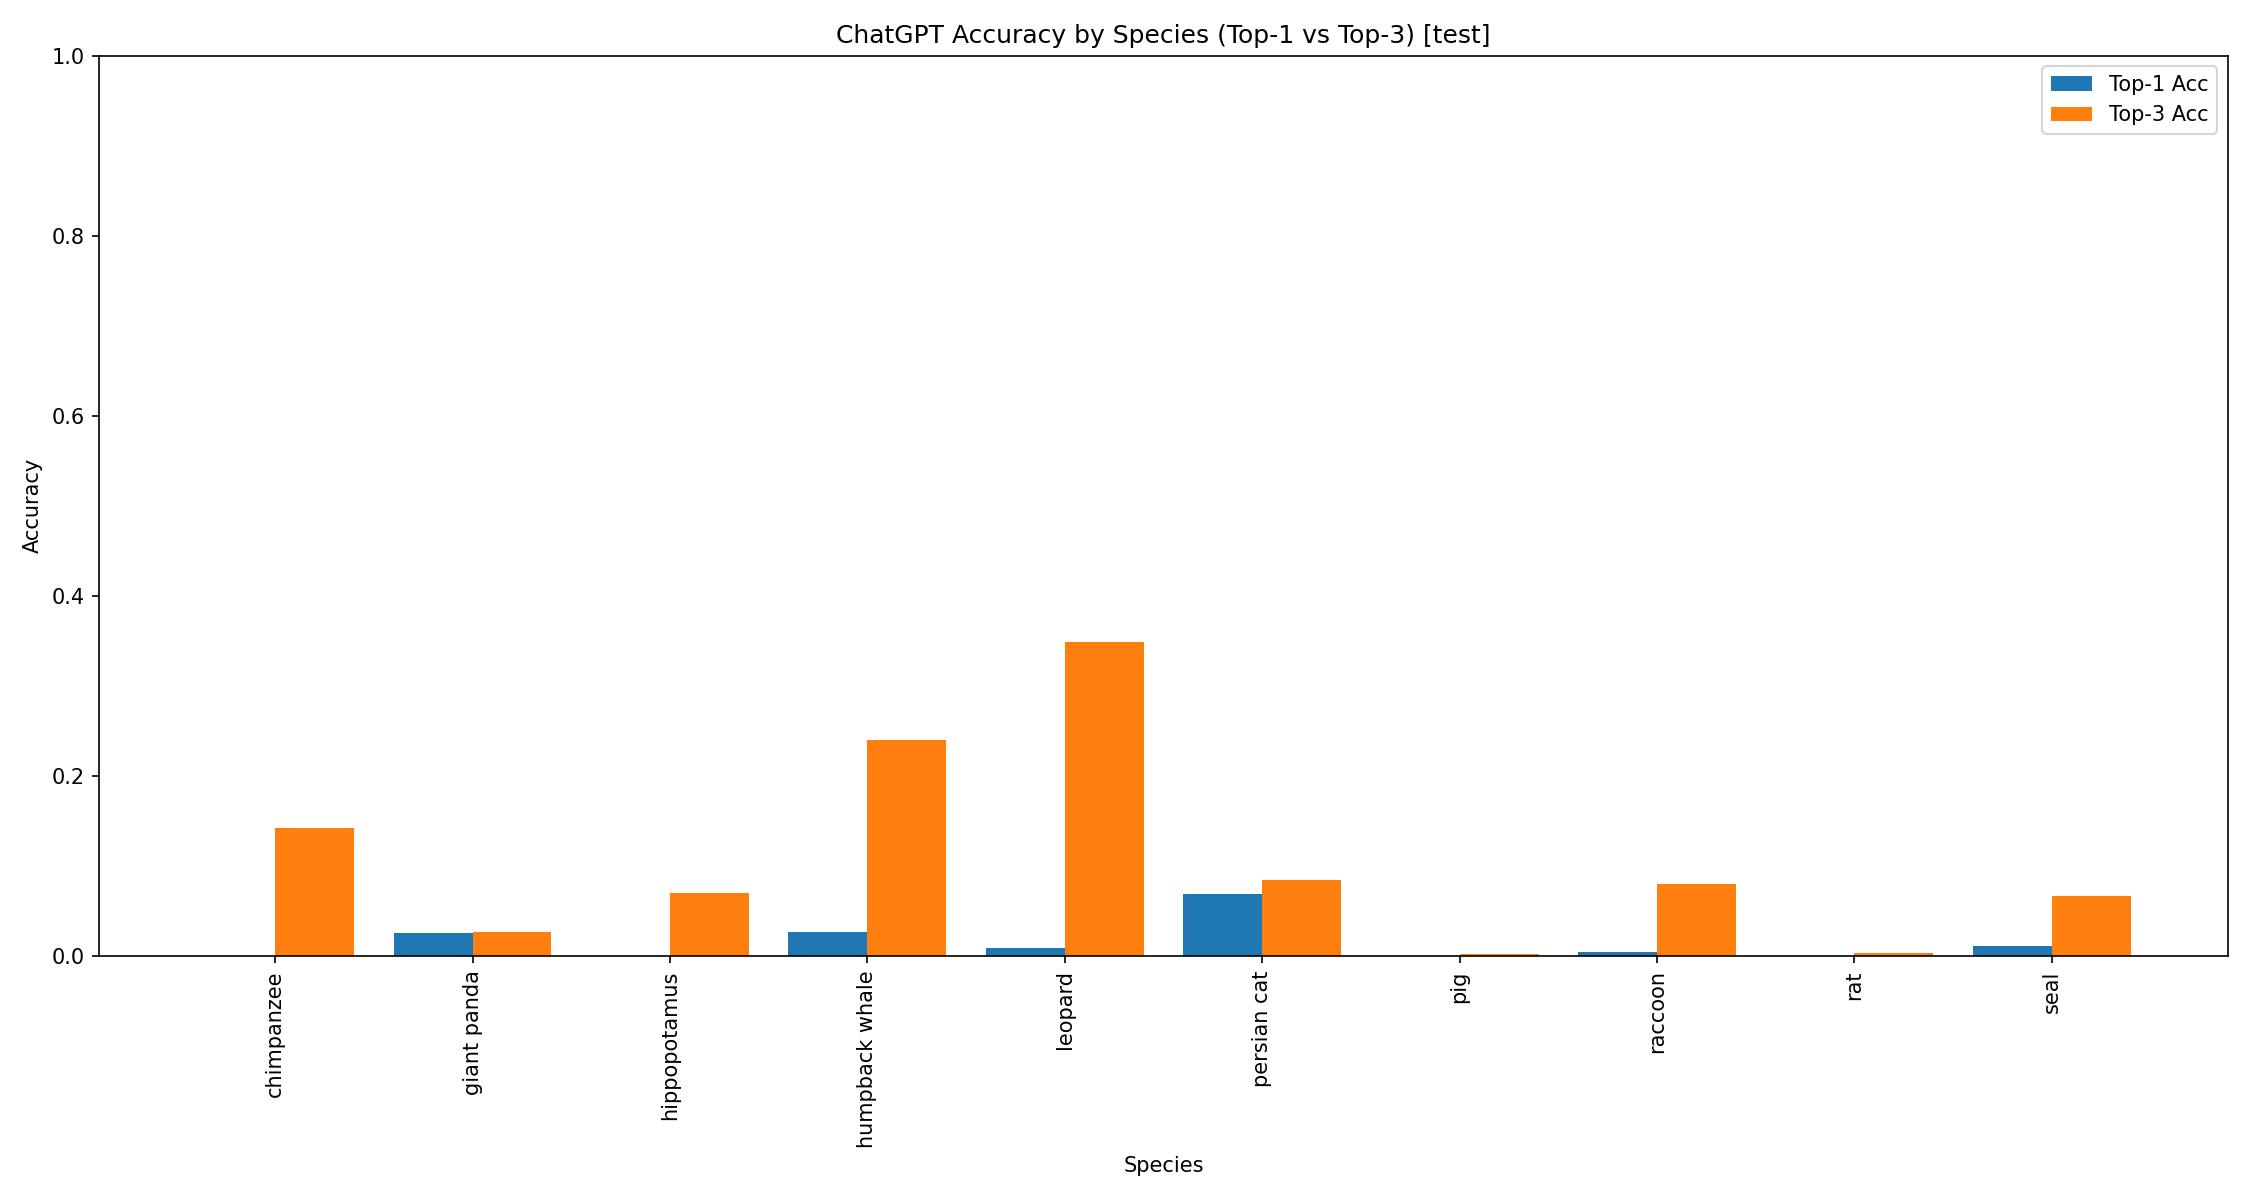
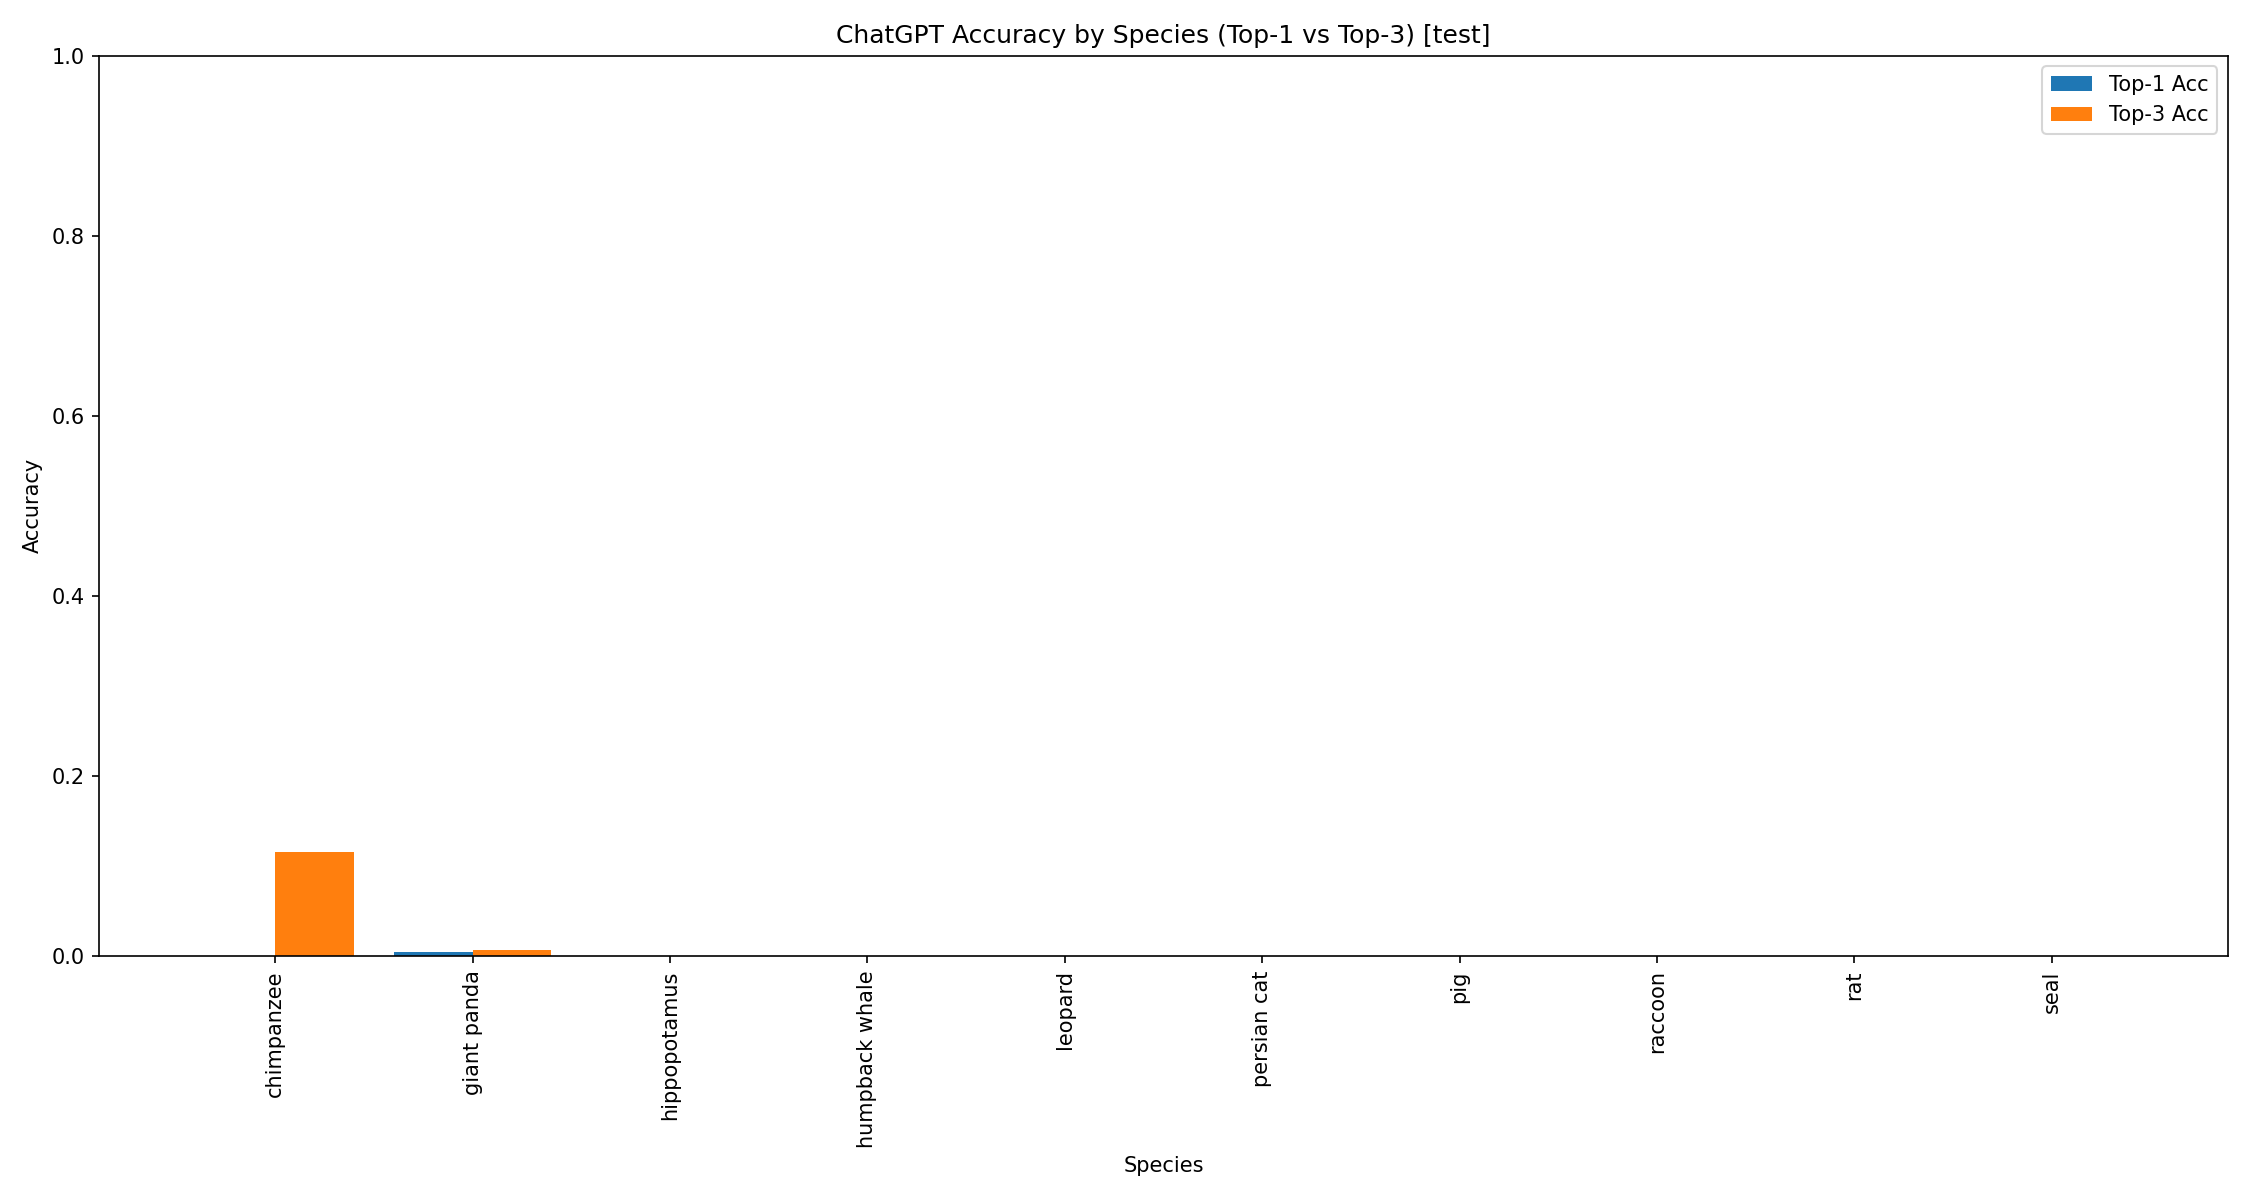
another

diff --git a/awa2_code/main_code/resnet50_CNN_Awa2/AWA2_LLM.py b/awa2_code/main_code/resnet50_CNN_Awa2/AWA2_LLM.py
@@ -50,7 +50,7 @@ PREDICATES_TXT = "/remote_home/WegnerThesis/animals_with_attributes/animals_w_at
 CLASSES_TXT    = "/remote_home/WegnerThesis/animals_with_attributes/animals_w_att_data/classes.txt"
 
 # Use the up-to-date GPT-4 model or a stable snapshot if available
-OPENAI_MODEL_NAME = "gpt-4"
+OPENAI_MODEL_NAME = "gpt-4o-mini"
 
 # ChatGPT params
 MAX_TOKENS = 500
